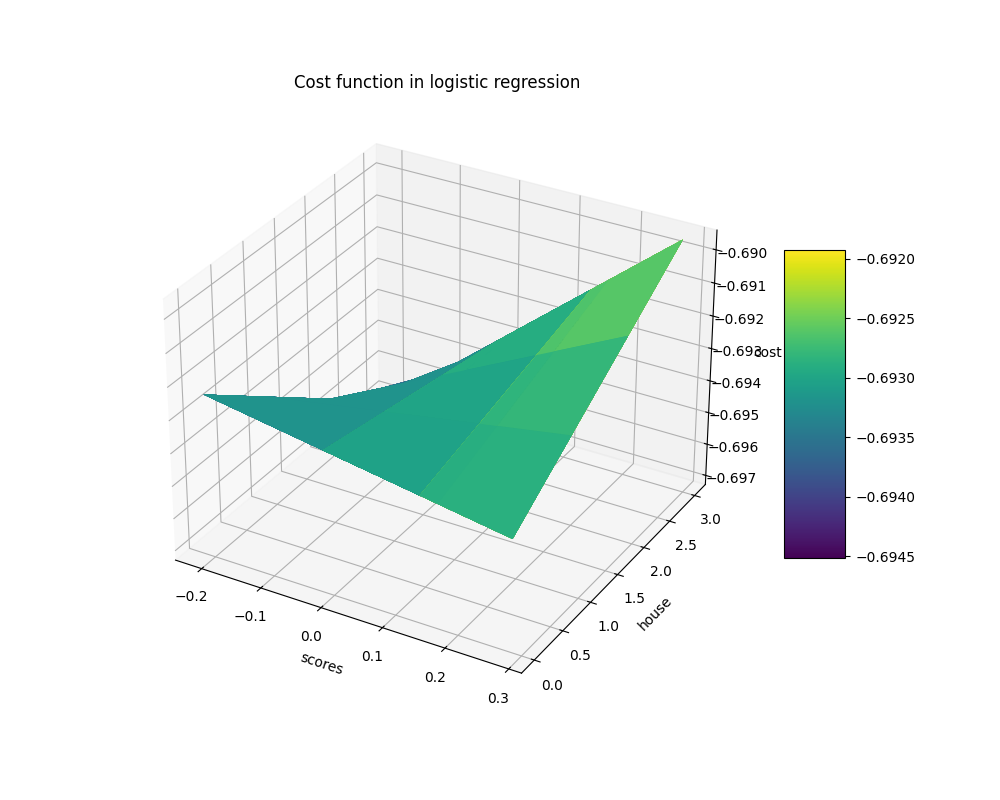
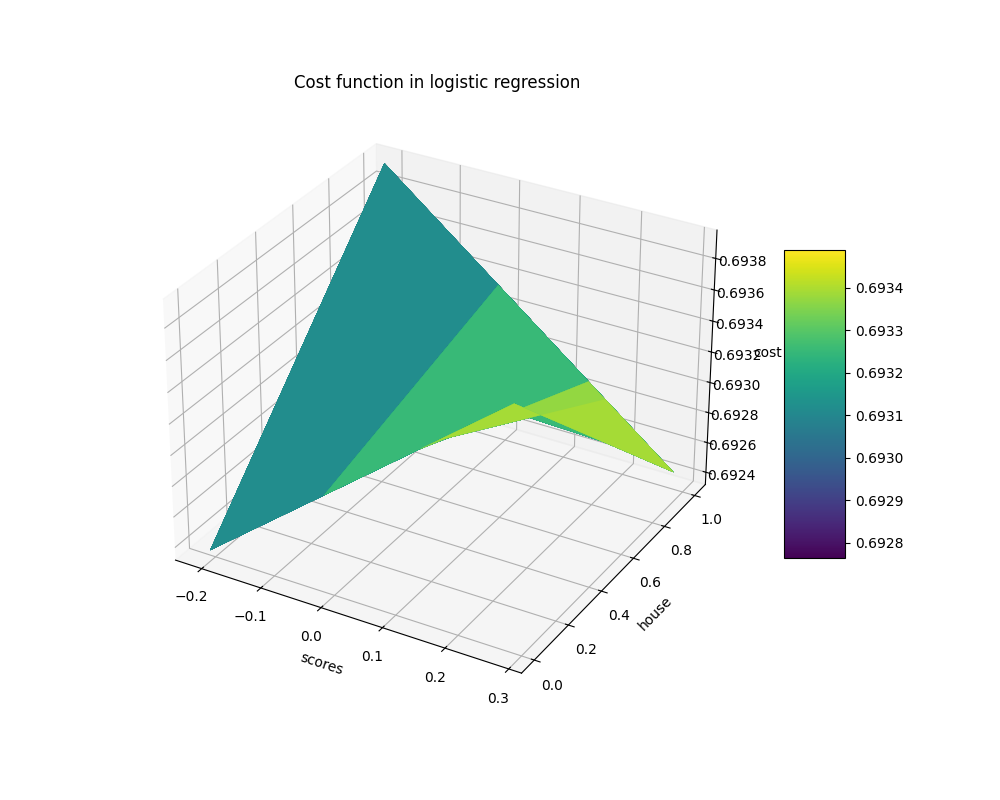
work on surface plot 3D

diff --git a/cost.py b/cost.py
@@ -61,8 +61,8 @@ def get_cost() -> any:
             z = dot(col, w[j]) + bias
             predictions[i].insert(j, 1 / (1 + (e ** -z)))
 
-    predictions = [p.index(max(p)) for p in predictions]
-
+    # predictions = [p.index(max(p)) for p in predictions]
+    predictions = [1 if p.index(max(p)) == 0 else 0 for p in predictions]
 
     A, B = meshgrid(rhs.mean(), predictions)
 
@@ -73,7 +73,7 @@ def get_cost() -> any:
         for j in range(A.shape[1]):
             z = A[i, j] * mean(theta_1) + theta_0
             y_hat[i, j] = 1 / (1 + e ** -z)
-            loss[i, j] = B[i, j] * log(y_hat[i, j]) + (1 - B[i, j]) * log(1 - y_hat[i, j])
+            loss[i, j] = -B[i, j] * log(y_hat[i, j]) - (1 - B[i, j]) * log(1 - y_hat[i, j])
 
     # colors = {0: "lightblue", 1: "pink", 2: "lightgray", 3: "lightgreen"}
     # categories = [i for i, x in enumerate(houses)]
